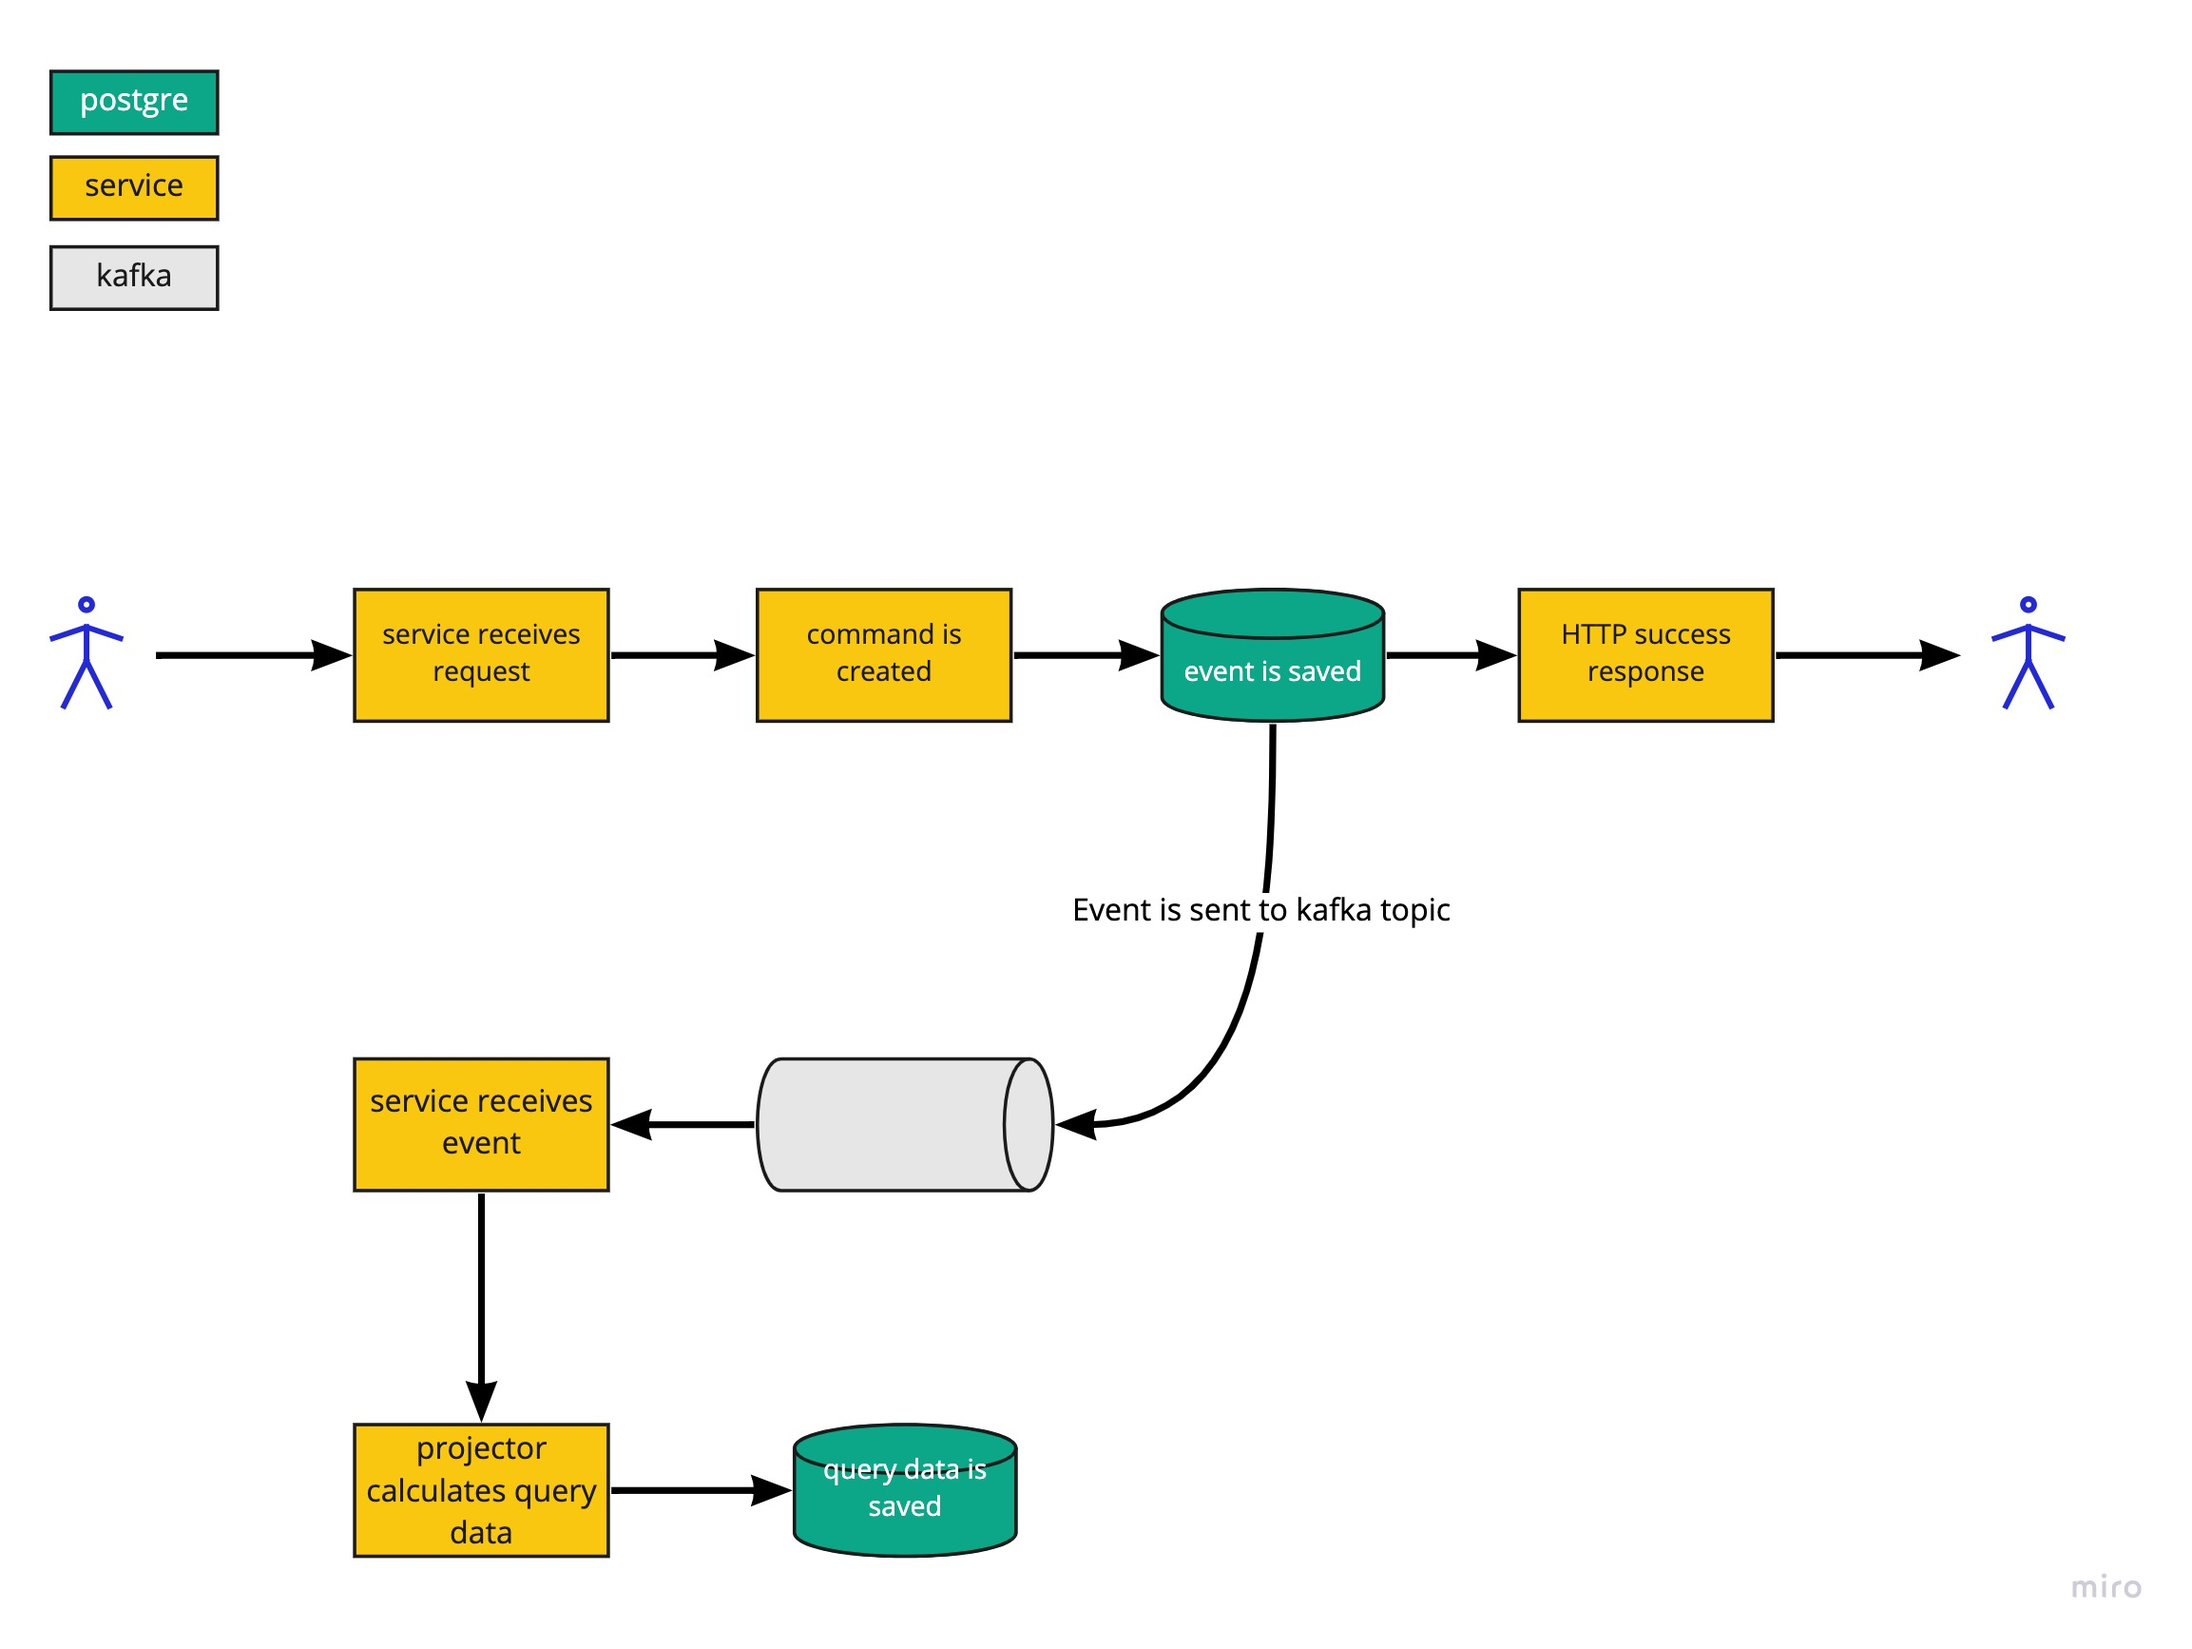
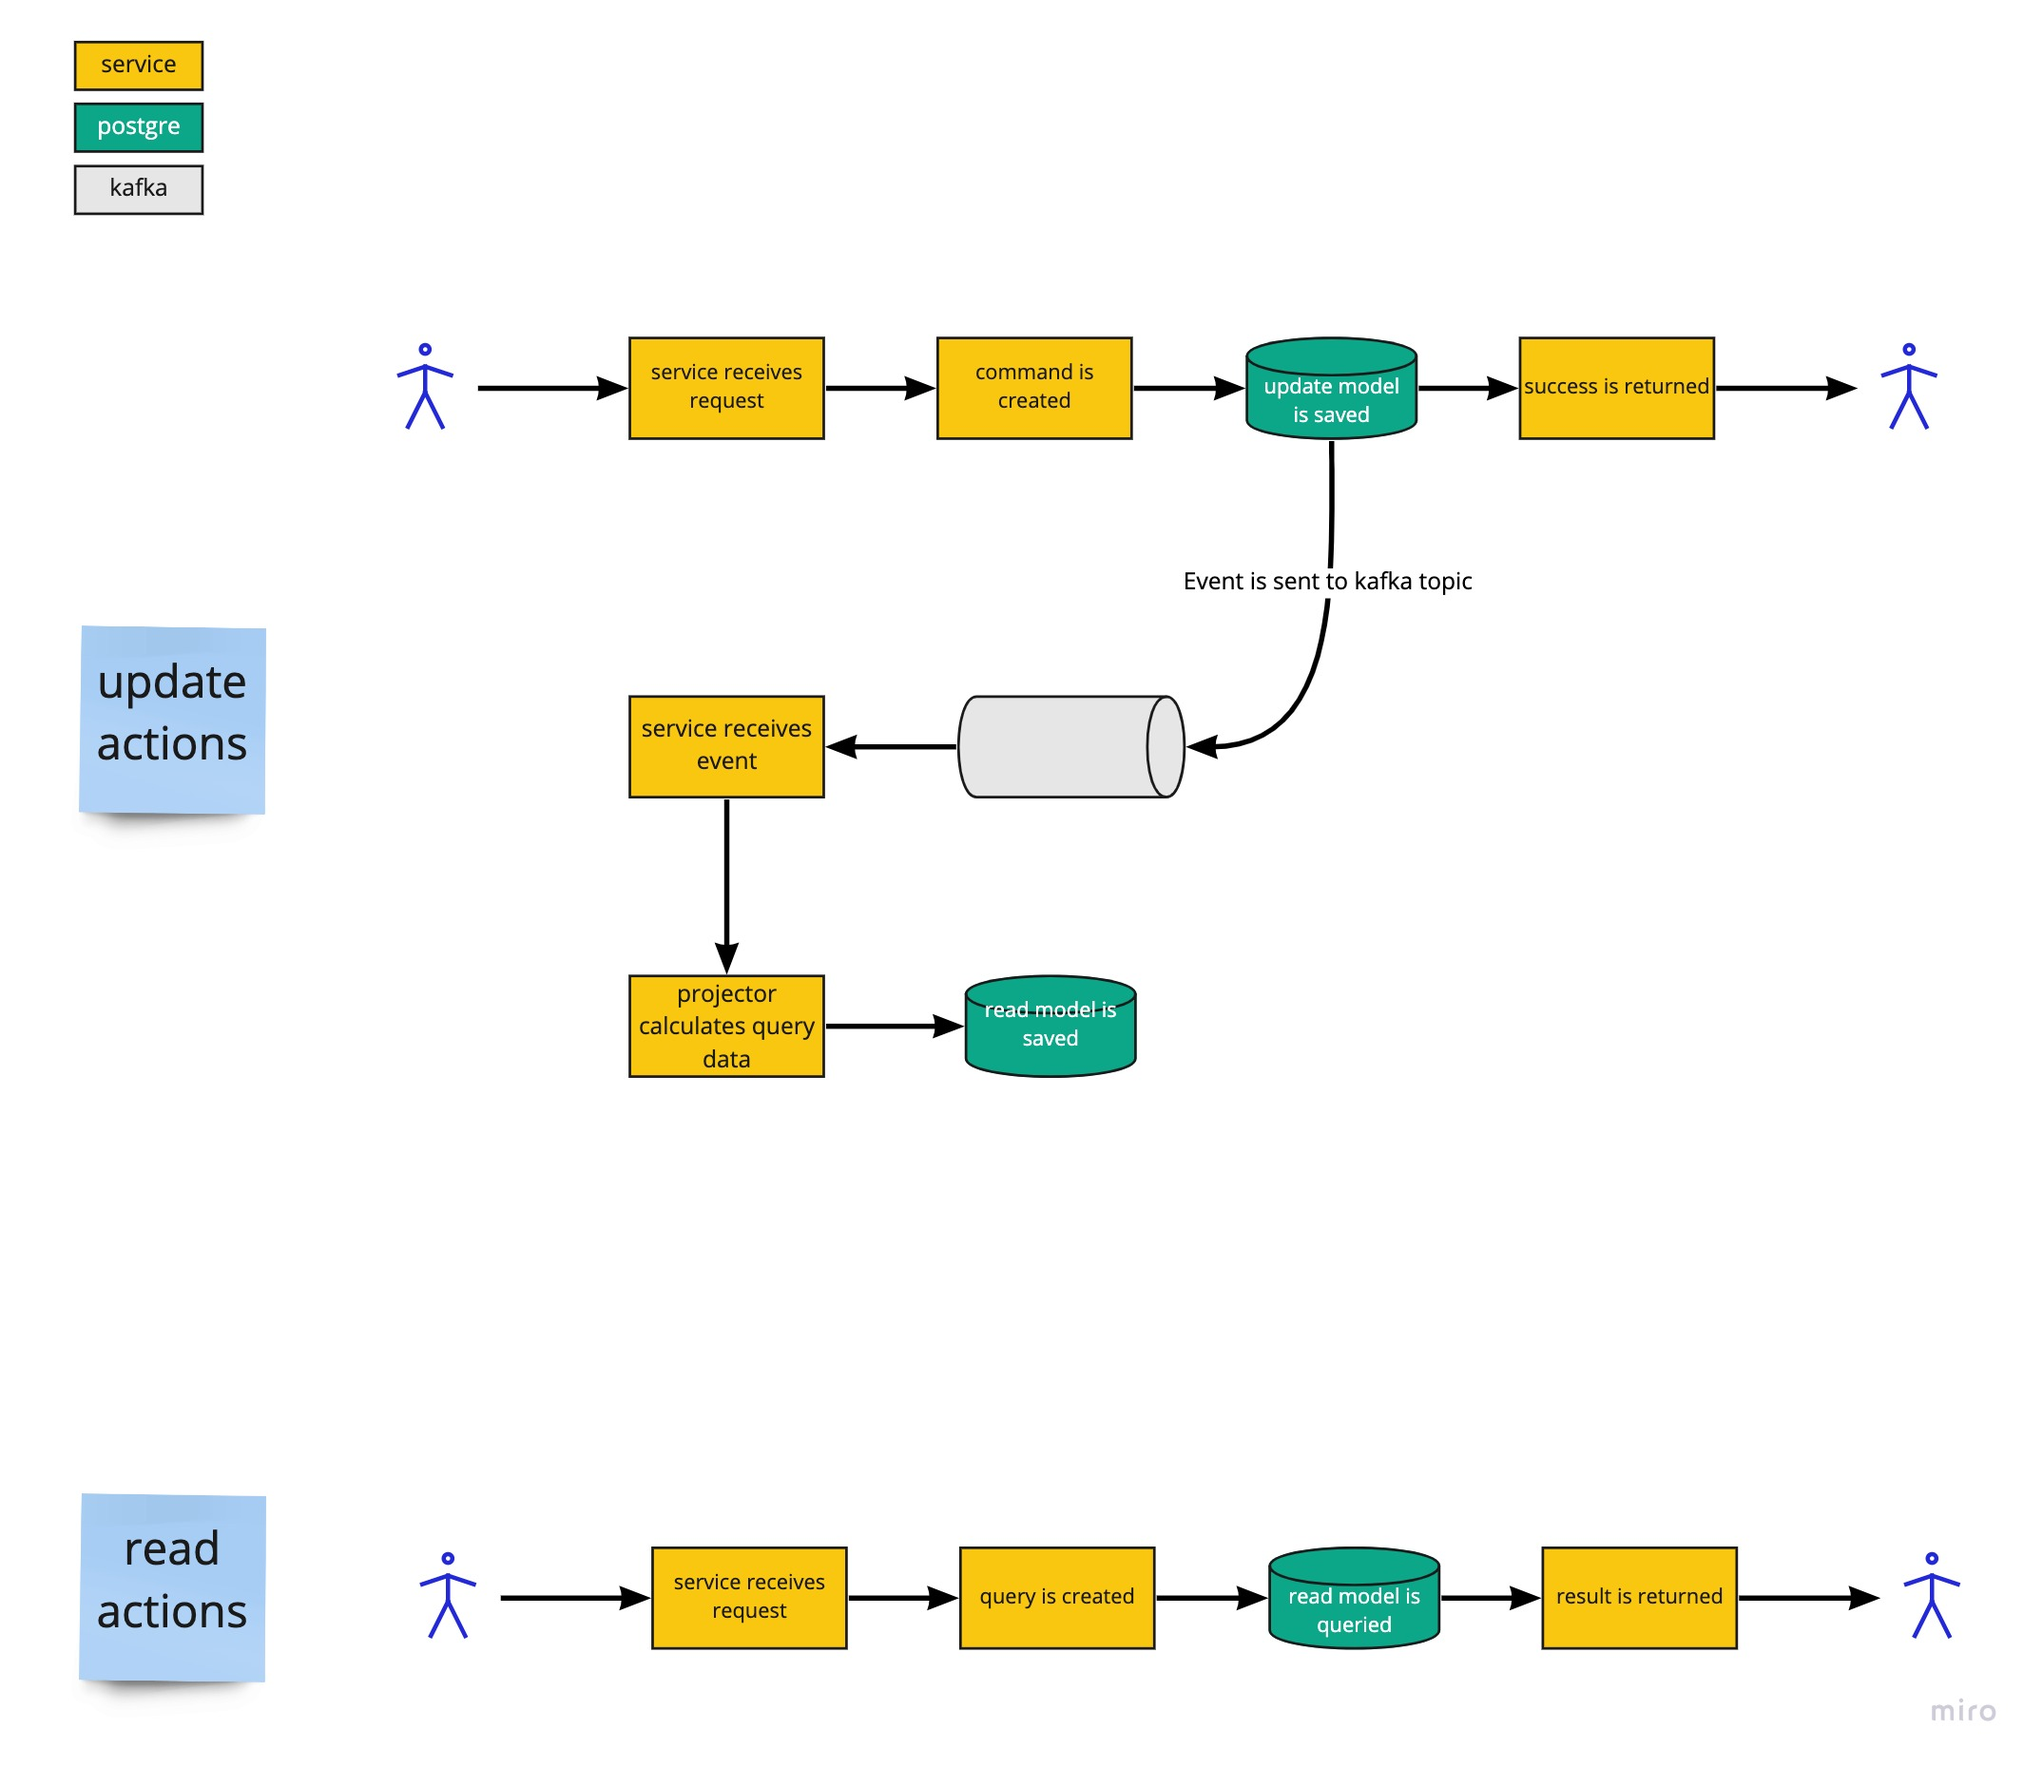
more documentation

diff --git a/src/main/java/io/baris/coffeeshop/cqrs/command/CommandHandler.java b/src/main/java/io/baris/coffeeshop/cqrs/command/CommandHandler.java
@@ -4,12 +4,19 @@ import io.baris.coffeeshop.cqrs.event.EventManager;
 import io.baris.coffeeshop.system.kafka.KafkaEventProducer;
 import lombok.RequiredArgsConstructor;
 
+/**
+ * Handles commands to change the state of the application
+ */
 @RequiredArgsConstructor
 public class CommandHandler {
 
     private final EventManager eventManager;
     private final KafkaEventProducer kafkaEventProducer;
 
+    /**
+     * 1. Saves the event in the database
+     * 2. Publishes a message to the Kafka topic
+     */
     public <T> void handleCommand(final Command<T> command) {
         eventManager.createEvent(command.getEvent());
 

diff --git a/src/main/java/io/baris/coffeeshop/checkout/CheckoutResource.java b/src/main/java/io/baris/coffeeshop/checkout/CheckoutResource.java
@@ -34,6 +34,6 @@ public class CheckoutResource {
             .build();
         commandHandler.handleCommand(checkoutCommand);
 
-        return Response.accepted(checkoutCommand).build();
+        return Response.ok(checkoutCommand).build();
     }
 }

diff --git a/src/main/java/io/baris/coffeeshop/stock/StockResource.java b/src/main/java/io/baris/coffeeshop/stock/StockResource.java
@@ -34,6 +34,6 @@ public class StockResource {
             .build();
         commandHandler.handleCommand(addStockCommand);
 
-        return Response.accepted(addStockCommand).build();
+        return Response.ok(addStockCommand).build();
     }
 }

diff --git a/README.md b/README.md
@@ -1,8 +1,38 @@
-# Coffee Shop
+# Coffee Shop (Event Sourcing and CQRS example)
 
 ## About 
 
 This is an example **Java** RESTful web service for a **coffee shop**.
+
+It is designed as an **event sourcing** system where all data is stored as events.
+
+Also read model is separated from update model by following the **Command Query Responsibility Segregation(CQRS)** pattern.
+
+[Dropwizard](https://www.dropwizard.io) is used as the application framework.
+
+[PostgreSQL](https://www.postgresql.org) is used as the database.
+
+[Apache Kafka](https://kafka.apache.org/) is used for messaging.
+
+## Event Sourcing basics
+
+With event Sourcing, all changes to application state are stored as a sequence of events. 
+ 
+This forms an append-only **event log**.
+
+An entity’s current state can be created by replaying all the events in order of occurrence.
+
+## CQRS basics
+
+**Command:** An operation that changes the state of the application.
+
+**Query:** An operation that reads the state of the application.
+
+With CQRS pattern, the data for **commands** and **queries** are **split** in the database.
+
+By splitting the commands and queries, the CQRS allows developers to use **different models to read and write data**.
+
+![CQRS](docs/cqrs3.jpg)
 
 ## Setup
 
